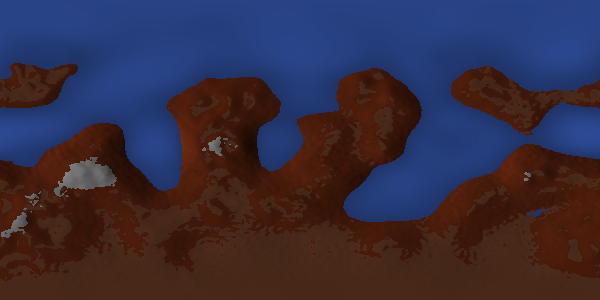
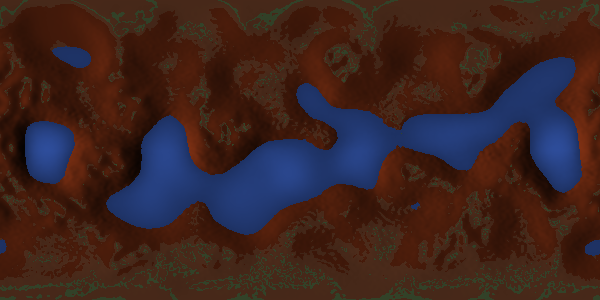
ergr

diff --git a/src/world.rs b/src/world.rs
@@ -46,7 +46,7 @@ type U8Pixel = [u8 ; 3];
 
 #[derive(PartialEq,Eq,Copy,Clone)]
 pub enum Material {
-    Rock, Foliage, Water, Ice, Snow, DarkRock,
+    Rock, Trees, Grass, Water, Ice, Snow, DarkRock,
 }
 
 impl Material {
@@ -54,7 +54,8 @@ impl Material {
         match self {
             &Material::Rock => [0.7, 0.4, 0.25],
             &Material::DarkRock => [0.65, 0.25, 0.1],
-            &Material::Foliage => [0.3, 0.6, 0.4],
+            &Material::Trees => [0.3, 0.6, 0.4],
+            &Material::Grass => [0.5, 0.65, 0.4],
             &Material::Water => [0.3, 0.5, 1.0],
             &Material::Ice => [0.8, 0.8, 1.0],
             &Material::Snow => [1.0, 1.0, 1.0],
@@ -77,23 +78,24 @@ fn px_finalize(x : FloatPixel) -> U8Pixel {
     (x[2] * 254.0) as u8]
 }
 
+#[derive(Debug)]
 pub struct World {
     base_height : NoiseField,
     complex_height : NoiseField,
     temp_nf : NoiseField,
     water_level : f32,
     pole_heights : [f32;2],
-    temp_equator : f32,     //0==freezing, 1==boiling
-    temp_pole : f32,
-    height_curve : CurveFunc,
+    snow_below_temp : f32,
+    grass_within : [f32;2],
+    trees_within : [f32;2],
 }
 
 fn globe_sample(nf : &NoiseField, pt : Point) -> f32 {
     let x1 = pt[0] / 2.0;
     let x2 = x1 + 0.5;
     let y = pt[1] / 2.0;
-    nf.sample([1.4*x1, y]) * pwr(x1)
-    + nf.sample([1.4*x2, y]) * pwr(x2)
+    nf.sample([1.9*x1, y]) * pwr(x1)
+    + nf.sample([1.9*x2, y]) * pwr(x2)
 }
 
 #[derive(Copy,Clone,Debug)]
@@ -139,7 +141,7 @@ impl World {
 
         let size = rng.gen::<f32>() * (0.2 + 0.8*wp.distance_to_star);
         let radiated_heat = wp.star_energy * (1.0 - wp.distance_to_star);
-        let water_level = sig_0_pt5(rng.gen::<f32>() * size * (1.0 - radiated_heat), 0.8);
+        let water_level = sig_0_pt5(rng.gen::<f32>() * size * (1.0 - radiated_heat), 0.5);
 
 
         let base_height_bounds = [
@@ -168,21 +170,20 @@ impl World {
             Self::raw_sample(&base_height, [rng.gen(), 0.0]) * 0.5 + 0.5,
             Self::raw_sample(&base_height, [rng.gen(), 1.0]) * 0.5 + 0.5,
         ];
-        
-        println!("wp {:?} size {:?} radiated {:?} waterlv {:?} base_height_bounds : {:?}, pole_heights : {:?}",
-            &wp, size, radiated_heat, water_level, &base_height_bounds, &pole_heights);
 
-        let temps : [f32;2] = ::array_init::array_init(|_| rng.gen::<f32>() * 5.0 - 2.0);
-        World {
+        // let temps : [f32;2] = ::array_init::array_init(|_| rng.gen::<f32>() * 5.0 - 2.0);
+        let w = World {
             base_height : base_height,
             complex_height : complex_height,
-            height_curve : CurveFunc::new(&mut rng, 5),
             temp_nf : NoiseField::generate(&mut rng, [60.0, 100.0], 3),
             water_level : water_level,
             pole_heights : pole_heights,
-            temp_equator : if temps[0] > temps[1] {temps[0]} else {temps[1]},
-            temp_pole :  if temps[0] < temps[1] {temps[0]} else {temps[1]},
-        }
+            snow_below_temp : -sigmoid(-radiated_heat, 4.13),
+            grass_within : [0.1,0.2],
+            trees_within : [0.1,0.3],
+        };
+        println!("w {:#?}", &w);
+        w
     }
 
     // (-1.0, 1.0)
@@ -192,16 +193,23 @@ impl World {
 
     fn temp_at(&self, pt : Point) -> f32 {
         let x = self.polarize_sample(globe_sample(&self.temp_nf, pt), pt[1]) * 0.5 + 0.5;
-        x * 0.1
-        + (1.0-self.height_at(pt)) * 0.9
+        x * 0.15
+        + (1.0-self.height_at(pt)) * 0.85
     }
 
     pub fn material_at(&self, pt : Point) -> Material {
         let temp = self.temp_at(pt);
         let height = self.height_at(pt);
-        if height < self.water_level {Material::Water}
-        else if temp < 0.4 {Material::Snow}
-        else if self.x_slope_at(pt).abs() + self.y_slope_at(pt).abs() > 0.1 {Material::DarkRock}
+        let slope = self.x_slope_at(pt).abs() + self.y_slope_at(pt).abs();
+        let veg_dist = (((temp - 0.3).abs() + 0.01) * (slope*20.0 + height) - self.snow_below_temp).abs();
+        // println!("{}, {}, {}", temp, height, slope);
+        if height < self.water_level {
+            if temp + 0.02 < self.snow_below_temp {Material::Ice}
+            else {Material::Water}
+        }
+        else if temp < self.snow_below_temp {Material::Snow}
+        else if slope > 0.1 {Material::DarkRock}
+        else if veg_dist  < 0.02 {Material::Grass}
         else {Material::Rock}
     }
 
@@ -246,7 +254,6 @@ impl World {
 
     fn pixel_sample(&self, pt : Point) -> U8Pixel {
         let height = self.height_at(pt);
-        // let pole_dist = 1.0 - (0.5 - pt[1]).abs() * 2.0;
         px_finalize(
             {
                 let mat = self.material_at(pt);

diff --git a/src/main.rs b/src/main.rs
@@ -48,10 +48,10 @@ fn does(range : [u64;2]) ->  std::thread::JoinHandle<()> {
 fn main() {
     let seed = 2;
     let mut handles = vec![
-        does([0, 5]),
-        does([5, 10]),
-        does([10, 15]),
-        does([15, 20]),
+        does([0, 50]),
+        does([50, 100]),
+        does([100, 150]),
+        // does([150, 200]),
     ];
     for x in handles.drain(..) {
         x.join().is_ok();
